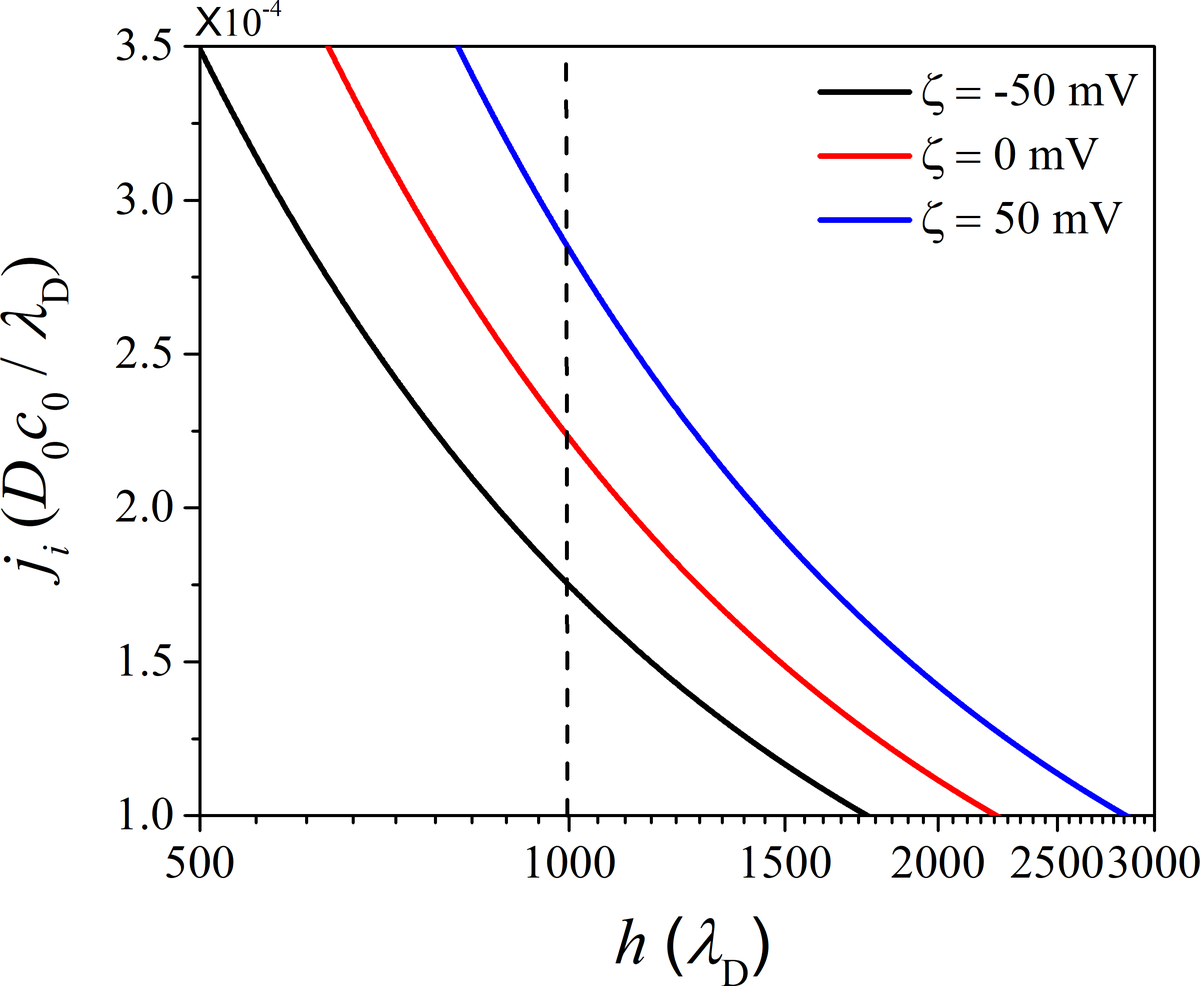
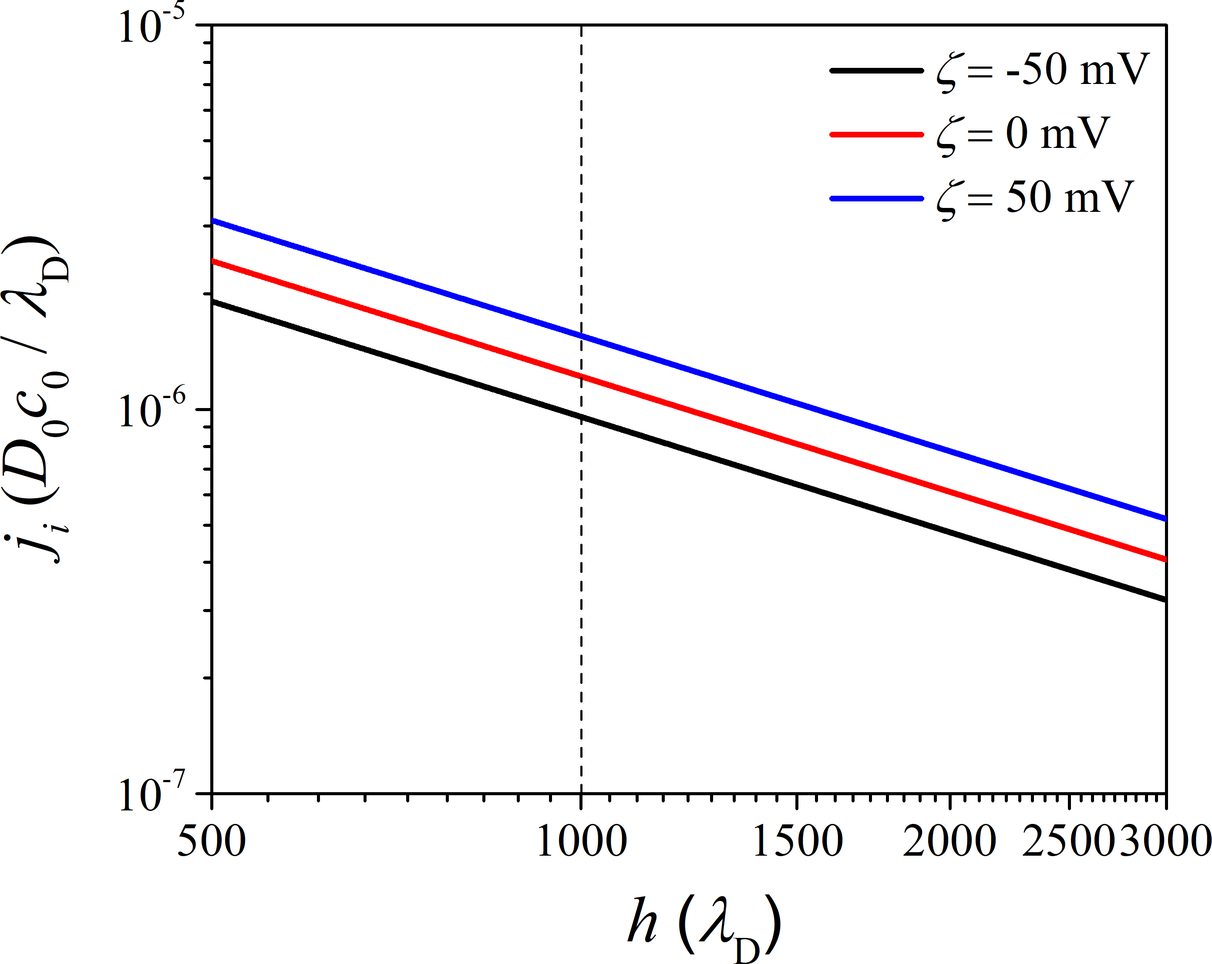
change images

diff --git a/index.html b/index.html
@@ -1,0 +1,297 @@
+<p>
+    <span style="font-size:21px;font-family:黑体">评审意见</span><span style="font-size:21px">1</span>
+</p>
+<table cellspacing="0" cellpadding="0">
+    <tbody>
+        <tr class="firstRow">
+            <td width="568" valign="top" style="border: 1px solid windowtext; padding: 0px 7px;">
+                <p>
+                    <strong><span style="font-family:宋体">问题</span></strong><strong>1</strong><span style="font-family:宋体">：引言</span>1-5<span style="font-family:宋体">页关于纳米技术、纳米实验手段和模拟方法的内容与论文研究联系不强，请加以关联和论述。</span>
+                </p>
+                <p>
+                    &nbsp;
+                </p>
+            </td>
+        </tr>
+        <tr>
+            <td width="568" valign="top" style="border-right: 1px solid windowtext; border-bottom: 1px solid windowtext; border-left: 1px solid windowtext; border-image: initial; border-top: none; padding: 0px 7px;">
+                <p>
+                    <strong><span style="font-family:宋体">回答</span></strong><span style="font-family:宋体">：感谢评审人提出的宝贵意见，</span><span style="font-family:宋体">已经删除</span>1-5<span style="font-family:宋体">页关于纳米技术、纳米实验手段和模拟方法的相关内容，并增加了纳米药物的发展史以及所面临的的困境等相关内容，详细见文中</span>p1-3<span style="font-family:宋体">。</span>
+                </p>
+                <p>
+                    &nbsp;
+                </p>
+            </td>
+        </tr>
+    </tbody>
+</table>
+<p>
+    &nbsp;
+</p>
+<p>
+    <span style="font-size:21px;font-family:黑体">评审意见</span><span style="font-size:21px">2</span>
+</p>
+<table cellspacing="0" cellpadding="0">
+    <tbody>
+        <tr class="firstRow">
+            <td width="568" valign="top" style="border: 1px solid windowtext; padding: 0px 7px; word-break: break-all;">
+                <p>
+                    <strong><span style="font-family:宋体">问题</span></strong><strong>1</strong><span style="font-family:宋体">：在引言中介绍了纳米技术的发展，包括</span>STM<span style="font-family:宋体">、</span>AFM<span style="font-family:宋体">等实验技术、量子点等纳米材料，然而在论文中再未提及相关实验和技术。是否偏离主题太远、或未有清晰阐明相关性？文献综述未能够全面反映国内学者在该领域的研究和发展趋势，建议增补。</span>
+                </p>
+                <p>
+                    &nbsp;
+                </p>
+            </td>
+        </tr>
+        <tr>
+            <td width="568" valign="top" style="border-right: 1px solid windowtext; border-bottom: 1px solid windowtext; border-left: 1px solid windowtext; border-image: initial; border-top: none; padding: 0px 7px;">
+                <p>
+                    <strong><span style="font-family:宋体">回答</span></strong><span style="font-family:宋体">：感谢评审人提出的宝贵意见，</span><span style="font-family:宋体">已删除</span>1-5<span style="font-family:宋体">页关于纳米技术、纳米实验手段和模拟方法的相关内容，并增加了纳米药物的发展史以及所面临的的困境等相关内容，详细见文中</span>p1-3<span style="font-family:宋体">。</span><span style="font-family:宋体">。</span>
+                </p>
+                <p>
+                    &nbsp;
+                </p>
+            </td>
+        </tr>
+        <tr>
+            <td width="568" valign="top" style="border-right: 1px solid windowtext; border-bottom: 1px solid windowtext; border-left: 1px solid windowtext; border-image: initial; border-top: none; padding: 0px 7px;">
+                <p>
+                    <strong><span style="font-family:宋体">问题</span></strong><strong>2</strong><strong><span style="font-family:宋体">：</span></strong><span style="font-family:宋体">第二章的推导中，有些是前人已经得到的结果，比如公式</span>2.1-2.19<span style="font-family:宋体">，公式</span>2.25-2.31<span style="font-family:宋体">等，对于前人给出的结果，请给出相应的文献。对于作者推导得到的结果请明确指明作者贡献，避免混淆。公式</span>2.38<span style="font-family:宋体">中无量纲量分别是如何进行无量纲化的，特征物理量未有给出。公式</span>2.42<span style="font-family:宋体">和表</span>2.1<span style="font-family:宋体">中，通过估算得到细胞内吞颗粒的效率高达</span>65.6%<span style="font-family:宋体">，是否有实验佐证？第二章没有该章的结论。</span>
+                </p>
+                <p>
+                    &nbsp;
+                </p>
+            </td>
+        </tr>
+        <tr>
+            <td width="568" valign="top" style="border-right: 1px solid windowtext; border-bottom: 1px solid windowtext; border-left: 1px solid windowtext; border-image: initial; border-top: none; padding: 0px 7px; word-break: break-all;">
+                <p>
+                    <strong><span style="font-family:宋体">回答</span></strong><span style="font-family:宋体">：</span>
+                </p>
+                <p class="MsoListParagraph" style="margin-left:28px">
+                    <strong>(1).<span style="font:9px &#39;Times New Roman&#39;">&nbsp;&nbsp; &nbsp; </span></strong><span style="font-family:宋体">感谢评审人提出的宝贵意见，已经对公式</span>2.4-2.9<span style="font-family:宋体">以及</span>2.21-2.26<span style="font-family:宋体">添加相关参考文献，</span>
+                </p>
+                <p style="margin-left:32px">
+                    [1] DEBYE P, HÜCKEL E. De la theorie des &nbsp; electrolytes. I. abaissement du point de congelation et phenomenes associes &nbsp; [J]. Physikalische Zeitschrift, 1923, 24: 185-206.
+                </p>
+                <p style="margin-left:32px">
+                    [2] EINSTEIN A. Über die von der molekularkinetischen Theorie der &nbsp; Wärme geforderte Bewegung von in ruhenden Flüssigkeiten suspendierten &nbsp; Teilchen [J]. Annalen der physik, 1905, 322(8): 549-560.
+                </p>
+                <p style="margin-left:32px">
+                    [3] EINSTEIN A. Investigations on the theory of the brownian &nbsp; movement [M]. New-York: Courier Corporation, 1956.
+                </p>
+                <p style="margin-left:32px">
+                    [4] LAIDLER K J, MEISER J H. Physical chemistry [M]. Menlo Park, &nbsp; Calif.: Benjamin/Cummings Pub. Co., 1982.
+                </p>
+                <p style="margin-left:32px">
+                    [5] <span style="font-family:宋体">赵亚溥</span>. <span style="font-family:宋体">表面与界面物理力学</span> [M]. <span style="font-family:宋体">北京</span>: <span style="font-family:   宋体">科学出版社</span>, 2012.
+                </p>
+                <p class="MsoListParagraph" style="margin-left:28px">
+                    <strong>(2).<span style="font:9px &#39;Times New Roman&#39;">&nbsp;&nbsp; &nbsp; </span></strong><span style="font-family:宋体">感谢评审人提出的宝贵意见，这里确实描述不太清楚，已在文中补充了是如何选取特征量的，“本章选择纳米药物在血液中的浓度</span><span style="font-family:   宋体">、在水溶液中的扩散系数</span><span style="font-family:   宋体">、</span>Debye<span style="font-family:宋体">长度</span><span style="font-family:   宋体">以及</span><span style="font-family:   宋体">为特征量做无量纲化”，详细见文中</span>p22<span style="font-family:宋体">。</span>
+                </p>
+                <p class="MsoListParagraph" style="margin-left:28px">
+                    <strong>(3).<span style="font:9px &#39;Times New Roman&#39;">&nbsp;&nbsp; &nbsp; </span></strong><span style="font-family:宋体">感谢评审人提出的宝贵意见，</span><span style="font-family:宋体">此处物理量的名称存在问题，“细胞内吞颗粒的效率”应为“无量纲化后的细胞膜的通透系数”，已在文中修改，详细</span>p23<span style="font-family:宋体">和</span>p24<span style="font-family:宋体">。本文是通过如下方法估算出细胞膜的通透系数的，首先假设</span>100<span style="font-family:宋体">个纳米颗粒撞击细胞膜表面会有</span>1<span style="font-family:宋体">个纳米颗粒被细胞吞入，然后根据气体分子热运动理论推导出无量纲化后的细胞膜通透系数为</span>0.656.
+                </p>
+                <p class="MsoListParagraph" style="margin-left:28px">
+                    <strong>(4).<span style="font:9px &#39;Times New Roman&#39;">&nbsp;&nbsp; &nbsp; </span></strong><span style="font-family:宋体">感谢评审人提出的宝贵意见，</span><span style=";font-family:宋体">已在文中的最后增加了本章结论，</span>p29<span style=";font-family:宋体">。</span>
+                </p>
+                <p>
+                    &nbsp;
+                </p>
+            </td>
+        </tr>
+        <tr>
+            <td width="568" valign="top" style="border-right: 1px solid windowtext; border-bottom: 1px solid windowtext; border-left: 1px solid windowtext; border-image: initial; border-top: none; padding: 0px 7px;">
+                <p>
+                    <strong><span style="font-family:宋体">问题</span>3</strong><span style="font-family:宋体">：为何图</span>2.5<span style="font-family:宋体">、</span>2.7<span style="font-family:   宋体">与图</span>2.6<span style="font-family:宋体">的纵坐标差了一个量级？是否意味着表面电势的影响相对于电泳淌度和糖萼厚度的影响可以忽略。图</span>2.6<span style="font-family:宋体">显示</span>zeta<span style="font-family:宋体">电势变化</span>100 mV<span style="font-family:宋体">导致的通量变化约为</span>10^-4<span style="font-family:宋体">，这与图</span>2.8<span style="font-family:宋体">给出的结论一致，却与图</span>2.7<span style="font-family:宋体">给出的结论不相符。</span>
+                </p>
+                <p>
+                    &nbsp;
+                </p>
+            </td>
+        </tr>
+        <tr>
+            <td width="568" valign="top" style="border-right: 1px solid windowtext; border-bottom: 1px solid windowtext; border-left: 1px solid windowtext; border-image: initial; border-top: none; padding: 0px 7px; word-break: break-all;">
+                <p>
+                    <strong><span style="font-family:宋体">回答：</span></strong>
+                </p>
+                <p class="MsoListParagraph" style="margin-left:32px">
+                    <strong>(1).<span style="font:9px &#39;Times New Roman&#39;">&nbsp;&nbsp;&nbsp;&nbsp; &nbsp; </span></strong><span style="font-family:宋体">感谢评审人提出的宝贵意见，</span><span style="font-family:宋体">图</span>2.5<span style="font-family:   宋体">、</span>2.7<span style="font-family:宋体">与图</span>2.6<span style="font-family:宋体">的纵坐标确实相差一个数量级。根据本文的理论结果，纳米药物进入细胞膜的通量满足方程</span>2.66&nbsp;
+                </p>
+                <p class="MsoListParagraph" style="margin-left:32px">
+                    <span style=";font-family:宋体;color:black">根据<span style="font-family: 宋体;">方程</span>2.66，本文讨论了纳米药物的</span><span style=";color:black">zeta</span><span style=";font-family:宋体;color:black">电势</span><span style=";font-family:宋体;color:black">的影响，结果见图</span><span style=";color:black">2.5</span><span style=";font-family:宋体;color:black">，糖萼的厚度</span><span style=";font-family:宋体;color:black">的影响，结果见图</span><span style=";color:black">2.6</span><span style=";font-family:宋体;color:black">以及细胞糖萼中</span><span style=";color:black">GAG</span><span style=";font-family:宋体;color:black">的含量</span><span style=";font-family:宋体;color:black">的影响，结果见图</span><span style=";color:black">2.7</span><span style=";font-family:宋体;color:black">。从计算结果看，糖萼的厚度对纳米药物进入细胞通量的影响确实最大。</span>
+                </p>
+                <p class="MsoListParagraph" style="margin-left:28px">
+                    <strong><span style=";color:black">(2).<span style="font:9px &#39;Times New Roman&#39;">&nbsp;&nbsp; </span></span></strong><span style="font-family:宋体">感谢评审人提出的宝贵意见，</span><span style=";font-family:宋体;color:black">本文在图</span><span style=";color:black">2.7</span><span style=";font-family:宋体;color:black">中研究了厚度变化带来的影响。本文的另外两个结果，图</span><span style=";color:black">2.5</span><span style=";font-family:宋体;color:black">和图</span><span style=";color:black">2.7</span><span style=";font-family:宋体;color:black">是在固定糖萼的厚度</span><span style=";font-family:宋体;color:black">的情况下得到的，此时要和图</span><span style=";color:black">2.6</span><span style=";font-family:宋体;color:black">对应，应该选取横坐标为</span><span style=";color:black">1000</span><span style=";font-family:宋体;color:black">时纳米药物通量的值。局部放大了图</span><span style=";color:black">2.7</span><span style=";font-family:宋体;color:black">，可以发现这个结果与本文另外两幅图的结果是一致的。</span>
+                </p>
+                <p style="text-align: center">
+                    <img style="width:275px;" src="https://raw.githubusercontent.com/imechZhangLY/thesis/master/imgs/1.png"/>
+                </p>
+                <p class="MsoListParagraph" style="text-align:center;text-indent:   32px">
+                    <span style=";color:black"></span>
+                </p>
+            </td>
+        </tr>
+        <tr>
+            <td width="568" valign="top" style="border-right: 1px solid windowtext; border-bottom: 1px solid windowtext; border-left: 1px solid windowtext; border-image: initial; border-top: none; padding: 0px 7px;">
+                <p>
+                    <strong><span style="font-family:宋体">问题</span>4</strong><strong><span style="font-family:宋体">：</span></strong><span style="font-family:   宋体">如图</span>3.6<span style="font-family:宋体">所述，是否意味着糖萼内部假设为导电的，因此电势处处相等？而间隙处为绝缘体，电势为处处零？作为有液体存在的介电体来说，导致该电势分布的物理机制是什么？而与图</span>3.7<span style="font-family:宋体">相对应的，</span>zeta<span style="font-family:宋体">电势为</span>50 mV<span style="font-family:宋体">或</span>-50 mV<span style="font-family:宋体">时的电势分布又如何？从第三章的推导来看，没有看出何处可以给出平均通过时间，以及图</span>3.8<span style="font-family:宋体">的来源。第三章没有该章结论。</span>
+                </p>
+            </td>
+        </tr>
+        <tr>
+            <td width="568" valign="top" style="border-right: 1px solid windowtext; border-bottom: 1px solid windowtext; border-left: 1px solid windowtext; border-image: initial; border-top: none; padding: 0px 7px;">
+                <p>
+                    <strong><span style="font-family:宋体">回答：</span></strong>
+                </p>
+                <p class="MsoListParagraph" style="margin-left:28px">
+                    <strong><span style=";color:black">(1).<span style="font:9px &#39;Times New Roman&#39;">&nbsp;&nbsp; </span></span></strong><span style="font-family:宋体">感谢评审人提出的宝贵意见，</span><span style=";font-family:宋体;color:black">糖萼内部电势相同是因为糖萼内部有均匀分布的带负电的粘多糖</span><span style=";color:black"> (GAG)</span><span style=";font-family:宋体;color:black">导致的。而在细胞间隙处，没有糖萼覆盖，所以电势为</span><span style=";color:black">0.</span>
+                </p>
+                <p class="MsoListParagraph" style="margin-left:28px">
+                    <strong><span style=";color:black">(2).<span style="font:9px &#39;Times New Roman&#39;">&nbsp;&nbsp; </span></span></strong><span style="font-family:宋体">感谢评审人提出的宝贵意见，</span><span style=";font-family:宋体;color:black">造成该电势分布的物理机制是因为糖萼中均匀分布的负电荷造成的，此外液体环境中，游离的电解质离子会影响电势的分布，使电势的影响范围局限在很短的一端距离内，其中</span><span style=";color:black">Debye</span><span style=";font-family:宋体;color:black">长度就是衡量这个范围的很重要的物理量。</span>
+                </p>
+                <p class="MsoListParagraph" style="margin-left:28px">
+                    <strong><span style=";color:black">(3).<span style="font:9px &#39;Times New Roman&#39;">&nbsp;&nbsp; </span></span></strong><span style="font-family:宋体">感谢评审人提出的宝贵意见，</span><span style=";font-family:宋体;color:black">细胞膜附近的电场主要是糖萼中带负电的粘多糖造成的，本文假设了纳米药物的</span><span style=";color:black">zeta</span><span style=";font-family:宋体;color:black">电势对电场的分布不产生影响。</span>
+                </p>
+                <p class="MsoListParagraph" style="margin-left:28px">
+                    <strong><span style=";color:black">(4).<span style="font:9px &#39;Times New Roman&#39;">&nbsp;&nbsp; </span></span></strong><span style="font-family:宋体">感谢评审人提出的宝贵意见，文中确实存在描述不清的地方，已经</span><span style=";font-family:宋体;color:black">在文中添加了平均首次到达时间的定义，</span><span style=";color:black">p33-34</span><span style=";font-family:宋体;color:black">，即恰好有一个纳米颗粒进入细胞间隙的时间，计算公式见文中公式3.15。</span>
+                </p>
+                <p class="MsoListParagraph" style="margin-left:28px;text-indent:0">
+                    <span style=";font-family:宋体;color:black">图</span><span style=";color:black">3.8</span><span style=";font-family:宋体;color:black">是利用上文中用到的有限元方法以及上述方程计算而来的。</span>
+                </p>
+                <p class="MsoListParagraph" style="margin-left:28px">
+                    <strong><span style=";color:black">(5).<span style="font:9px &#39;Times New Roman&#39;">&nbsp;&nbsp; </span></span></strong><span style="font-family:宋体">感谢评审人提出的宝贵意见，</span><span style=";font-family:宋体;color:black">已经在本章最后添加了结论，详细见</span><span style=";color:black">p40-41</span><span style=";font-family:宋体;color:black">。</span>
+                </p>
+                <p>
+                    <strong>&nbsp;</strong>
+                </p>
+            </td>
+        </tr>
+        <tr>
+            <td width="568" valign="top" style="border-right: 1px solid windowtext; border-bottom: 1px solid windowtext; border-left: 1px solid windowtext; border-image: initial; border-top: none; padding: 0px 7px;">
+                <p>
+                    <strong><span style="font-family:宋体">问题</span>5</strong><strong><span style="font-family:宋体">：</span></strong><span style="font-family:   宋体">公式</span>4.8<span style="font-family:宋体">通过公式</span>4.2<span style="font-family:宋体">计算得到平衡态时纳米药物运动的速度，可以看到代入公式</span>4.7<span style="font-family:宋体">后，仍然是与时间相关的。文中没有控制方程</span>4.9<span style="font-family:宋体">，不含时的公式</span>4.10<span style="font-family:宋体">从何而来？将公式</span>4.14<span style="font-family:宋体">代入公式</span>4.10<span style="font-family:宋体">似乎并不成立，需要重新检验。从图</span>4.11<span style="font-family:宋体">中看不出来细胞膜和纳米药物之间的黏附现象，是因为细胞膜内张力很大，还是黏附力太小？第四章没有该章结论。</span>
+                </p>
+            </td>
+        </tr>
+        <tr>
+            <td width="568" valign="top" style="border-right: 1px solid windowtext; border-bottom: 1px solid windowtext; border-left: 1px solid windowtext; border-image: initial; border-top: none; padding: 0px 7px;">
+                <p>
+                    <strong><span style="font-family:宋体">回答：</span></strong>
+                </p>
+                <p class="MsoListParagraph" style="margin-left:28px">
+                    <strong><span style=";color:black">(1).<span style="font:9px &#39;Times New Roman&#39;">&nbsp;&nbsp; </span></span></strong><span style="font-family:宋体">感谢评审人提出的宝贵意见，文中确实存在容易混淆的地方，</span><span style=";font-family:宋体;color:black">公式</span><span style=";color:black">4.7</span><span style=";font-family:宋体;color:black">中的</span><em><span style=";color:black">t&nbsp;</span></em><span style=";font-family:宋体;color:black">并不代表时间，而是细胞膜的厚度，为了避免混淆已经将</span><em><span style=";color:black">t&nbsp;</span></em><span style=";font-family:宋体;color:black">替换为</span><span style="font-size:14px;font-family:   &#39;Calibri&#39;,&#39;sans-serif&#39;;position:relative;top:4px">h</span><span style=";font-family:宋体;color:black">，并修改了公式</span><span style=";color:black">4.19</span><span style=";font-family:宋体;color:black">、</span><span style=";color:black">4.20</span><span style=";font-family:宋体;color:black">、</span><span style=";color:black">4.25</span><span style=";font-family:宋体;color:black">、</span><span style=";color:black">4.26</span><span style=";font-family:宋体;color:black">。</span>
+                </p>
+                <p class="MsoListParagraph" style="margin-left:28px">
+                    <strong><span style=";color:black">(2).<span style="font:9px &#39;Times New Roman&#39;">&nbsp;&nbsp; </span></span></strong><span style="font-family:宋体">感谢评审人提出的宝贵意见，文中存在笔误，</span><span style=";font-family:宋体;color:black">控制方程</span><span style=";color:black">4.9</span><span style=";font-family:宋体;color:black">应为</span><span style=";color:black">4.7</span><span style=";font-family:宋体;color:black">，已经修改过来。</span>
+                </p>
+                <p class="MsoListParagraph" style="margin-left:28px">
+                    <strong><span style=";color:black">(3).<span style="font:9px &#39;Times New Roman&#39;">&nbsp;&nbsp; </span></span></strong><span style="font-family:宋体">感谢评审人提出的宝贵意见，</span><span style=";font-family:宋体;color:black">已重新检验了，方程成立。</span>
+                </p>
+                <p class="MsoListParagraph" style="margin-left:28px">
+                    <strong><span style=";color:black">(4).<span style="font:9px &#39;Times New Roman&#39;">&nbsp;&nbsp; </span></span></strong><span style="font-family:宋体">感谢评审人提出的宝贵意见，</span><span style=";font-family:宋体;color:black">在文中计算黏附能时使用了</span><span style=";color:black">L-J</span><span style=";font-family:宋体;color:black">势，因此细胞膜不需要贴在颗粒上，两者也会存在黏附能。</span>
+                </p>
+                <p class="MsoListParagraph" style="margin-left:28px">
+                    <strong><span style=";color:black">(5).<span style="font:9px &#39;Times New Roman&#39;">&nbsp;&nbsp; </span></span></strong><span style="font-family:宋体">感谢评审人提出的宝贵意见，</span><span style=";font-family:宋体;color:black">第五章已在文末补充了结论，详细见</span><span style=";color:black">p58-59</span><span style=";font-family:宋体;color:black">。</span>
+                </p>
+                <p>
+                    <strong>&nbsp;</strong>
+                </p>
+            </td>
+        </tr>
+        <tr>
+            <td width="568" valign="top" style="border-right: 1px solid windowtext; border-bottom: 1px solid windowtext; border-left: 1px solid windowtext; border-image: initial; border-top: none; padding: 0px 7px;">
+                <p>
+                    <strong><span style="font-family:宋体">问题</span>6</strong><strong><span style="font-family:宋体">：</span></strong><span style="font-family:   宋体">第五章总结需要进一步斟酌和提炼论文的主要工作和创新点。</span>
+                </p>
+                <p>
+                    <strong>&nbsp;</strong>
+                </p>
+            </td>
+        </tr>
+        <tr>
+            <td width="568" valign="top" style="border-right: 1px solid windowtext; border-bottom: 1px solid windowtext; border-left: 1px solid windowtext; border-image: initial; border-top: none; padding: 0px 7px;">
+                <p>
+                    <strong><span style="font-family:宋体">回答：</span></strong><span style="font-family:宋体">感谢评审人提出的宝贵意见，</span><span style=";font-family:宋体;color:black">已重新总结了本文的工作，重新写的总结在文中</span><span style=";color:black">p61</span><span style=";font-family:宋体;color:black">。</span>
+                </p>
+                <p>
+                    &nbsp;
+                </p>
+            </td>
+        </tr>
+        <tr>
+            <td width="568" valign="top" style="border-right: 1px solid windowtext; border-bottom: 1px solid windowtext; border-left: 1px solid windowtext; border-image: initial; border-top: none; padding: 0px 7px;">
+                <p>
+                    <strong><span style="font-family:宋体">问题</span>7</strong><strong><span style="font-family:宋体">：</span></strong><span style="font-family:   宋体">论文关键词“内皮细胞钙黏素”在摘要中一次都没出现；论文中介绍了很多概念，在首次出现时应给出相应的英文和缩写；图</span>2.6<span style="font-family:宋体">纵坐标应为斜体；</span>2.3.4<span style="font-family:宋体">标题少一个字；“</span>mean first passage time<span style="font-family:宋体">”</span> <span style="font-family:宋体">是否译为“平均首次通过时间”；第</span>45<span style="font-family:宋体">页“在本小结中”应为“在本小节中”；表</span>4.1<span style="font-family:宋体">中应如表</span>2.1<span style="font-family:宋体">一样给出参数的物理含义；文中英文有多处笔误，比如：表</span>2.1<span style="font-family:宋体">、图</span>3.7<span style="font-family:宋体">、表</span>4.1<span style="font-family:宋体">等；最后一页顺序有误。</span>
+                </p>
+                <p>
+                    <strong>&nbsp;</strong>
+                </p>
+            </td>
+        </tr>
+        <tr>
+            <td width="568" valign="top" style="border-right: 1px solid windowtext; border-bottom: 1px solid windowtext; border-left: 1px solid windowtext; border-image: initial; border-top: none; padding: 0px 7px;">
+                <p>
+                    <strong><span style="font-family:宋体">回答：</span></strong>
+                </p>
+                <p class="MsoListParagraph" style="margin-left:28px">
+                    <strong><span style=";color:black">(1).<span style="font:9px &#39;Times New Roman&#39;">&nbsp;&nbsp; </span></span></strong><span style="font-family:宋体">感谢评审人提出的宝贵意见，</span><span style=";font-family:宋体;color:black">已经在摘要中补充了“内皮细胞钙黏素”的相关内容。</span>
+                </p>
+                <p class="MsoListParagraph" style="margin-left:28px">
+                    <strong><span style=";color:black">(2).<span style="font:9px &#39;Times New Roman&#39;">&nbsp;&nbsp; </span></span></strong><span style="font-family:宋体">感谢评审人提出的宝贵意见，</span><span style=";font-family:宋体;color:black">已增加了一些概念的英文和缩写，如：纳米技术</span><span style=";color:black">(nanotechnology)</span><span style=";font-family:宋体;color:black">，磷脂</span><span style=";color:black">(phospholipid)</span><span style=";font-family:宋体;color:black">，血管中的输运</span><span style=";color:black">(vascular &nbsp; transport)</span><span style=";font-family:宋体;color:black">，穿透血管壁的输运</span><span style=";color:black">(transvascular &nbsp; transport)</span><span style=";font-family:宋体;color:black">，组织间隙中的输运</span><span style=";color:black">(<a name="OLE_LINK36"></a>interstitial transport)</span><span style=";font-family:宋体;color:black">，</span><span style="font-family:宋体">药物半衰期</span>(drug half-life)<span style="font-family:宋体">，转胞吞输运</span>(transcellular transport)<span style="font-family:宋体">，细胞旁路输运</span>(paracellular route)<span style="font-family:宋体">，糖萼</span>(glycocalyx)<span style="font-family:宋体">，粘多糖</span>(<a name="OLE_LINK21"></a><a name="OLE_LINK20"></a>glycosaminoglycan<span style="font-family:宋体">，简称</span>GAG)<span style=";font-family:宋体;color:black">等。</span>
+                </p>
+                <p class="MsoListParagraph" style="margin-left:28px">
+                    <strong><span style=";color:black">(3).<span style="font:9px &#39;Times New Roman&#39;">&nbsp;&nbsp; </span></span></strong><span style="font-family:宋体">感谢评审人提出的宝贵意见，</span><span style=";font-family:宋体;color:black">已重新画图，见下图，</span><span style=";color:black">p27</span><span style=";font-family:宋体;color:black">。</span>
+                </p>
+                <p class="MsoListParagraph" style="margin-left:28px;text-align:   center;text-indent:0">
+                    <img width="275" src="https://raw.githubusercontent.com/imechZhangLY/thesis/master/imgs/2.png"/>
+                </p>
+                <p class="MsoListParagraph" style="margin-left:28px">
+                    <strong><span style=";color:black">(4).<span style="font:9px &#39;Times New Roman&#39;">&nbsp;&nbsp; </span></span></strong><span style="font-family:宋体">感谢评审人提出的宝贵意见，</span><span style=";font-family:宋体;color:black">已修改</span><span style=";color:black">2.3.4</span><span style=";font-family:宋体;color:black">标题的错误。</span>
+                </p>
+                <p class="MsoListParagraph" style="margin-left:28px">
+                    <strong><span style=";color:black">(5).<span style="font:9px &#39;Times New Roman&#39;">&nbsp;&nbsp; </span></span></strong><span style="font-family:宋体">感谢评审人提出的宝贵意见，</span><span style=";font-family:宋体;color:black">已将文中的“</span><span style=";color:black">mean &nbsp; first time</span><span style=";font-family:宋体;color:black">”翻译成平均首次通过时间。</span>
+                </p>
+                <p class="MsoListParagraph" style="margin-left:28px">
+                    <strong><span style=";color:black">(6).<span style="font:9px &#39;Times New Roman&#39;">&nbsp;&nbsp; </span></span></strong><span style="font-family:宋体">感谢评审人提出的宝贵意见，</span><span style=";font-family:宋体;color:black">已将文中的“本小结”替换为“本小节”，见</span><span style=";color:black">p42</span><span style=";font-family:宋体;color:black">。</span>
+                </p>
+                <p class="MsoListParagraph" style="margin-left:28px">
+                    <strong><span style=";color:black">(7).<span style="font:9px &#39;Times New Roman&#39;">&nbsp;&nbsp; </span></span></strong><span style="font-family:宋体">感谢评审人提出的宝贵意见，</span><span style=";font-family:宋体;color:black">表</span><span style=";color:black">4.1</span><span style=";font-family:宋体;color:black">增加了参数的物理含义，见</span><span style=";color:black">p54</span><span style=";font-family:宋体;color:black">。</span>
+                </p>
+                <p class="MsoListParagraph" style="margin-left:28px">
+                    <strong><span style=";color:black">(8).<span style="font:9px &#39;Times New Roman&#39;">&nbsp;&nbsp; </span></span></strong><span style="font-family:宋体">感谢评审人提出的宝贵意见，</span><span style=";font-family:宋体;color:black">已经修改了文中的多处笔误，如将表</span><span style=";color:black">2.1</span><span style=";font-family:宋体;color:black">中的“</span><span style=";color:black">The &nbsp; parameter in our simulation</span><span style=";font-family:宋体;color:black">”修改为“</span><span style=";color:black">The &nbsp; parameters in our simulation</span><span style=";font-family:宋体;color:black">”；图</span><span style=";color:black">3.7</span><span style=";font-family:宋体;color:black">中的“</span><span style=";color:black">Zeta &nbsp; potential equals 50 mV</span><span style=";font-family:宋体;color:black">”和“</span><span style=";color:black">Zeta &nbsp; potentials equals -50 mV</span><span style=";font-family:宋体;color:black">”分别改为“</span><span style=";color:black">Zeta &nbsp; potential is 50 mV</span><span style=";font-family:   宋体;color:black">”和“</span><span style=";color:black">Zeta &nbsp; potential is -50 mV</span><span style=";font-family:   宋体;color:black">”；表</span><span style=";color:black">4.1</span><span style=";font-family:宋体;color:black">中的“</span><span style=";color:black">The &nbsp; parameter in our simulation</span><span style=";font-family:宋体;color:black">”改为“</span><span style=";color:black">The &nbsp; parameters in our simulation</span><span style=";font-family:宋体;color:black">”。</span>
+                </p>
+            </td>
+        </tr>
+    </tbody>
+</table>
+<p>
+    <span style="font-size:21px;font-family:黑体">&nbsp;</span>
+</p>
+<p>
+    <span style="font-size:21px;font-family:黑体">评审意见</span><span style="font-size:21px">3</span>
+</p>
+<table cellspacing="0" cellpadding="0">
+    <tbody>
+        <tr class="firstRow">
+            <td width="568" valign="top" style="border: 1px solid windowtext; padding: 0px 7px;">
+                <p>
+                    <strong><span style="font-family:宋体">问题</span></strong><strong>1</strong><span style="font-family:宋体">：例如每一章最好有一个小结，便于读者理解获得的结果。第五章的总结部分，关于第四章的描述有一大部分与第四章的最后一段基本完全相同。从论文整体来说，如果有可能，在总结部分应当对整个论文有一个综合的结论，例如基于第</span>2-4<span style="font-family:宋体">章关于输运、分布及从细胞旁路穿透血管壁的不同结果，在实际应用中，对于不同的用药需求，纳米药物最好具有哪些特性是比较优化的，这将使论文更有价值。另外文中有一些排版错误，例如</span>2.3.4<span style="font-family:宋体">的标题少了一个字，需要再进一步检查排版问题。</span>
+                </p>
+                <p>
+                    &nbsp;
+                </p>
+            </td>
+        </tr>
+        <tr>
+            <td width="568" valign="top" style="border-right: 1px solid windowtext; border-bottom: 1px solid windowtext; border-left: 1px solid windowtext; border-image: initial; border-top: none; padding: 0px 7px;">
+                <p>
+                    <strong><span style="font-family:宋体">回答</span></strong><span style="font-family:宋体">：</span><span style="font-family:宋体">感谢评审人提出的宝贵意见，</span><span style="font-family:宋体;color:black">已在每章后面添加了本章小结，详细见文中的</span><span style=";color:black">p29</span><span style="font-family:宋体;color:black">，</span><span style=";color:black">p40</span><span style="font-family:宋体;color:black">，</span><span style=";color:black">p58</span><span style="font-family:宋体;color:black">。第五章的总结部分已经重写，并补充了这些结论的潜在应用，增加了一个全文性的总结</span><span style=";color:black">(</span><span style="font-family:宋体;color:black">文中</span><span style=";color:black">p61)</span><span style="font-family:宋体;color:black">。仔细检查了文章，已经修改了排版错误和错别字。</span>
+                </p>
+            </td>
+        </tr>
+    </tbody>
+</table>
+<p>
+    <br/>
+</p>
